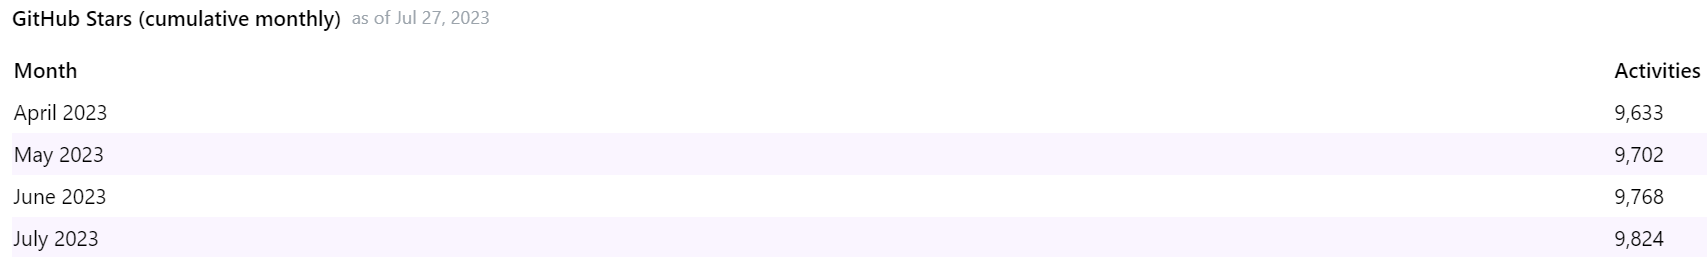
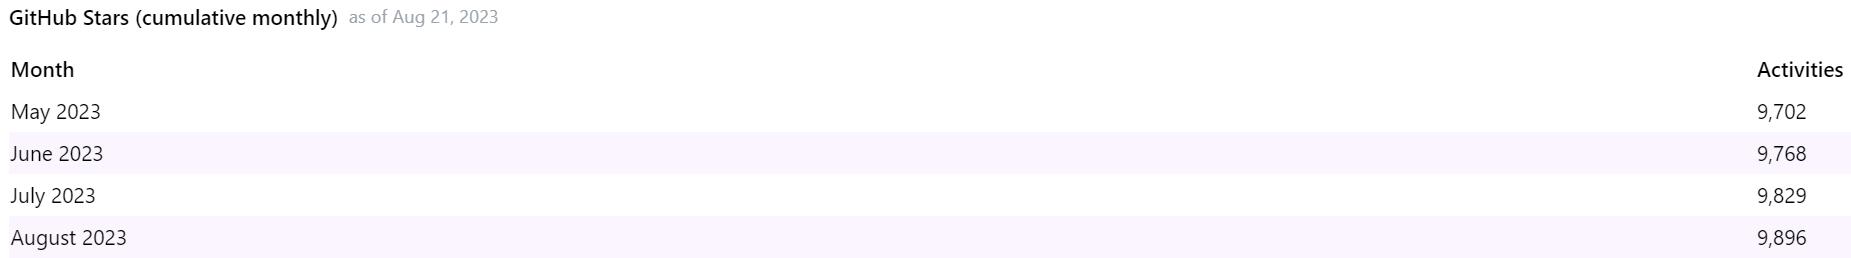
August stats. fixes #7

diff --git a/README.md b/README.md
@@ -1,7 +1,7 @@
 # open-source-metrics
 Various metrics on some of our open source project - _Work-in-Progress_
 
-📅 Extracted on July 27th 2023
+📅 Extracted on August 21st 2023
 
 # Swagger Projects Combined
 
